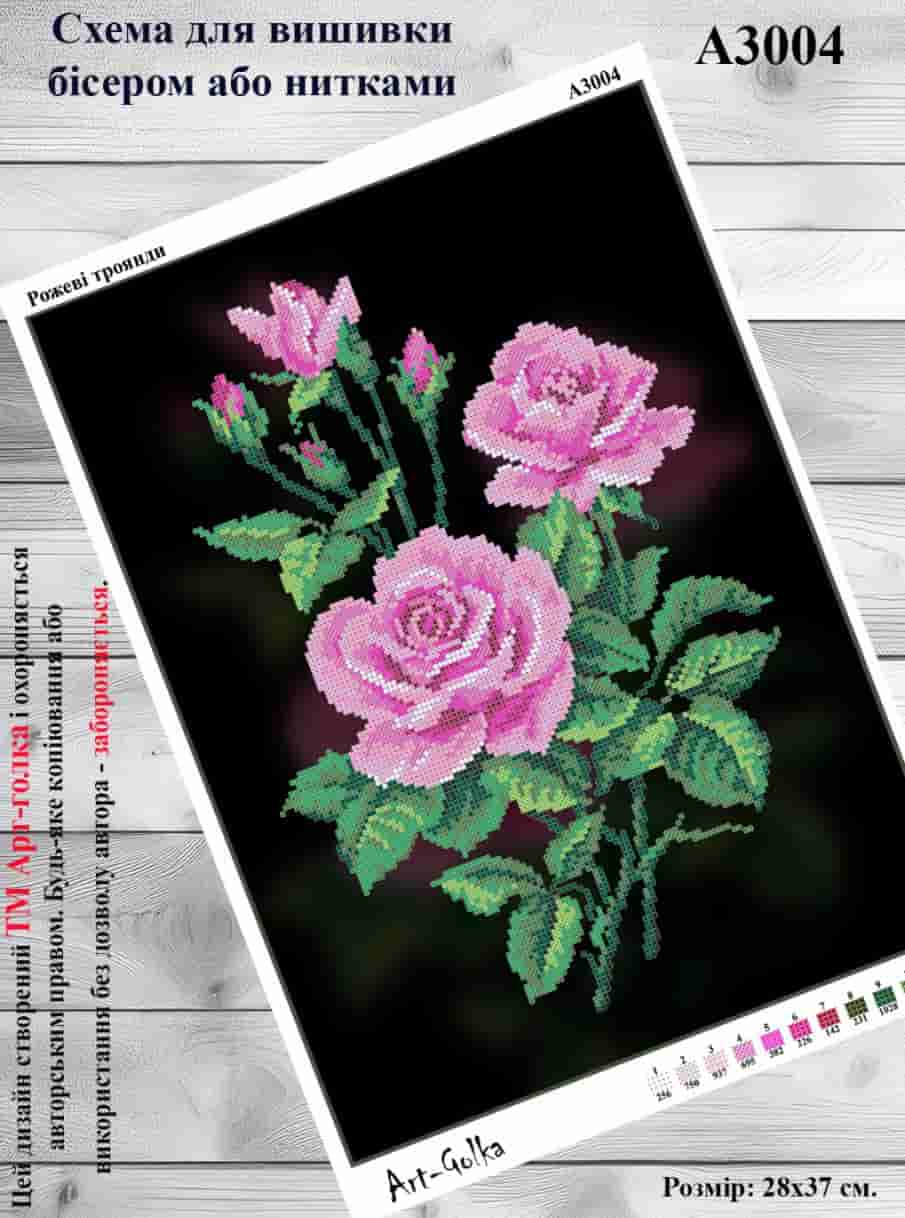
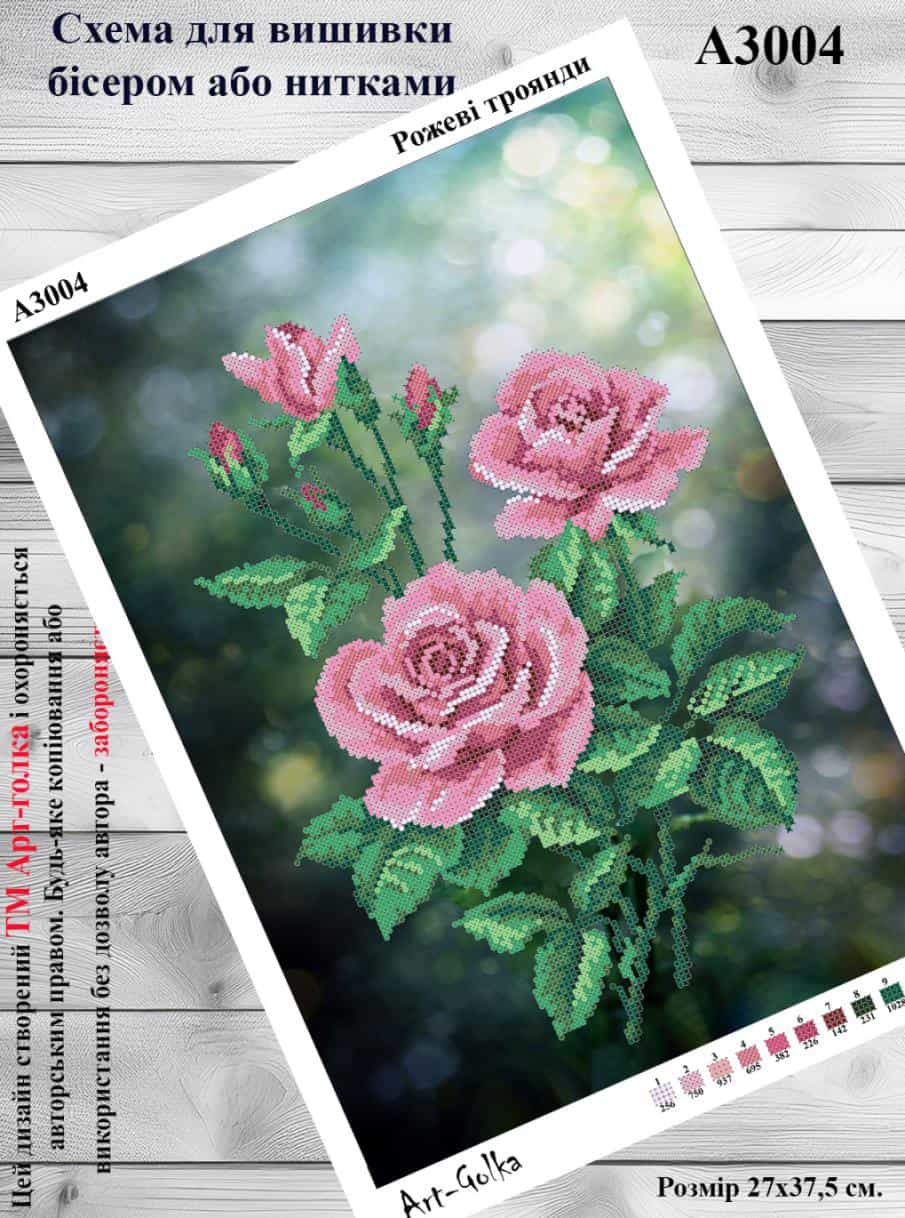
Deploying to gh-pages from @ Serhii120796/artGolka-2@ec6572b0d410b74e90041c1fef545f76b0188552 🚀

diff --git a/index.html b/index.html
@@ -1,1 +1,1 @@
-<!doctype html><html lang="uk"><head><meta charset="utf-8"/><meta name="viewport" content="width=device-width,initial-scale=1"/><meta name="description" content="Інтернет-магазин товарів для вишивки бісером. Продаємо термоналіпки, рушнички великодні, спасівські, весільні, банти, доріжки під вишивку бісером. Великий вибір, висока якість, доступні ціни."/><meta property="og:title" content="Арт Голка"/><meta property="og:description" content="Інтернет-магазин товарів для вишивки бісером"/><meta property="og:url" content="https://serhii120796.github.io/artGolka-2"/><meta property="og:type" content="website"/><title>Арт Голка</title><script defer="defer" src="/artGolka-2/static/js/main.d4d89236.js"></script><link href="/artGolka-2/static/css/main.ccfa9e00.css" rel="stylesheet"></head><body><noscript>You need to enable JavaScript to run this app.</noscript><div id="root"></div></body></html>
+<!doctype html><html lang="uk"><head><meta charset="utf-8"/><meta name="viewport" content="width=device-width,initial-scale=1"/><meta name="description" content="Інтернет-магазин товарів для вишивки бісером. Продаємо термоналіпки, рушнички великодні, спасівські, весільні, банти, доріжки під вишивку бісером. Великий вибір, висока якість, доступні ціни."/><meta property="og:title" content="Арт Голка"/><meta property="og:description" content="Інтернет-магазин товарів для вишивки бісером"/><meta property="og:url" content="https://serhii120796.github.io/artGolka-2"/><meta property="og:type" content="website"/><title>Арт Голка</title><script defer="defer" src="/artGolka-2/static/js/main.d7f5437d.js"></script><link href="/artGolka-2/static/css/main.ccfa9e00.css" rel="stylesheet"></head><body><noscript>You need to enable JavaScript to run this app.</noscript><div id="root"></div></body></html>